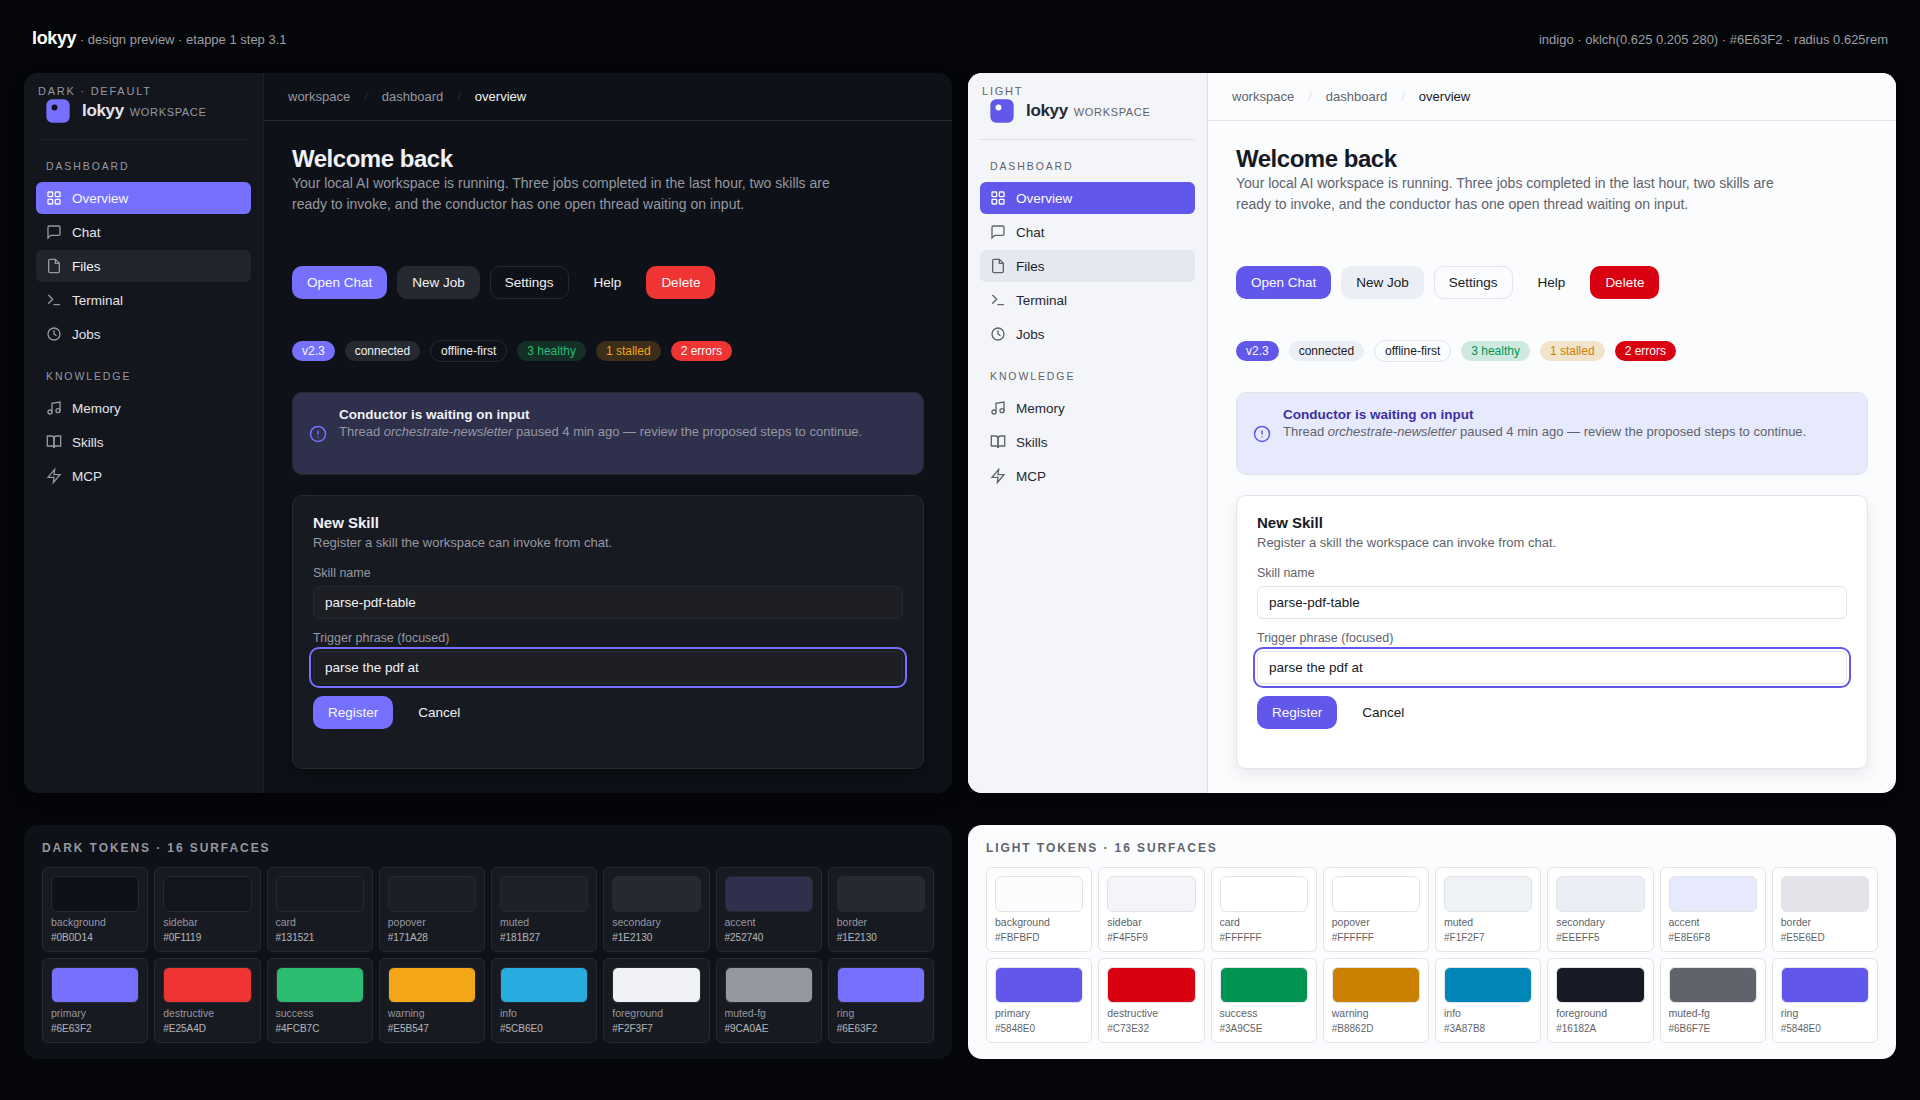
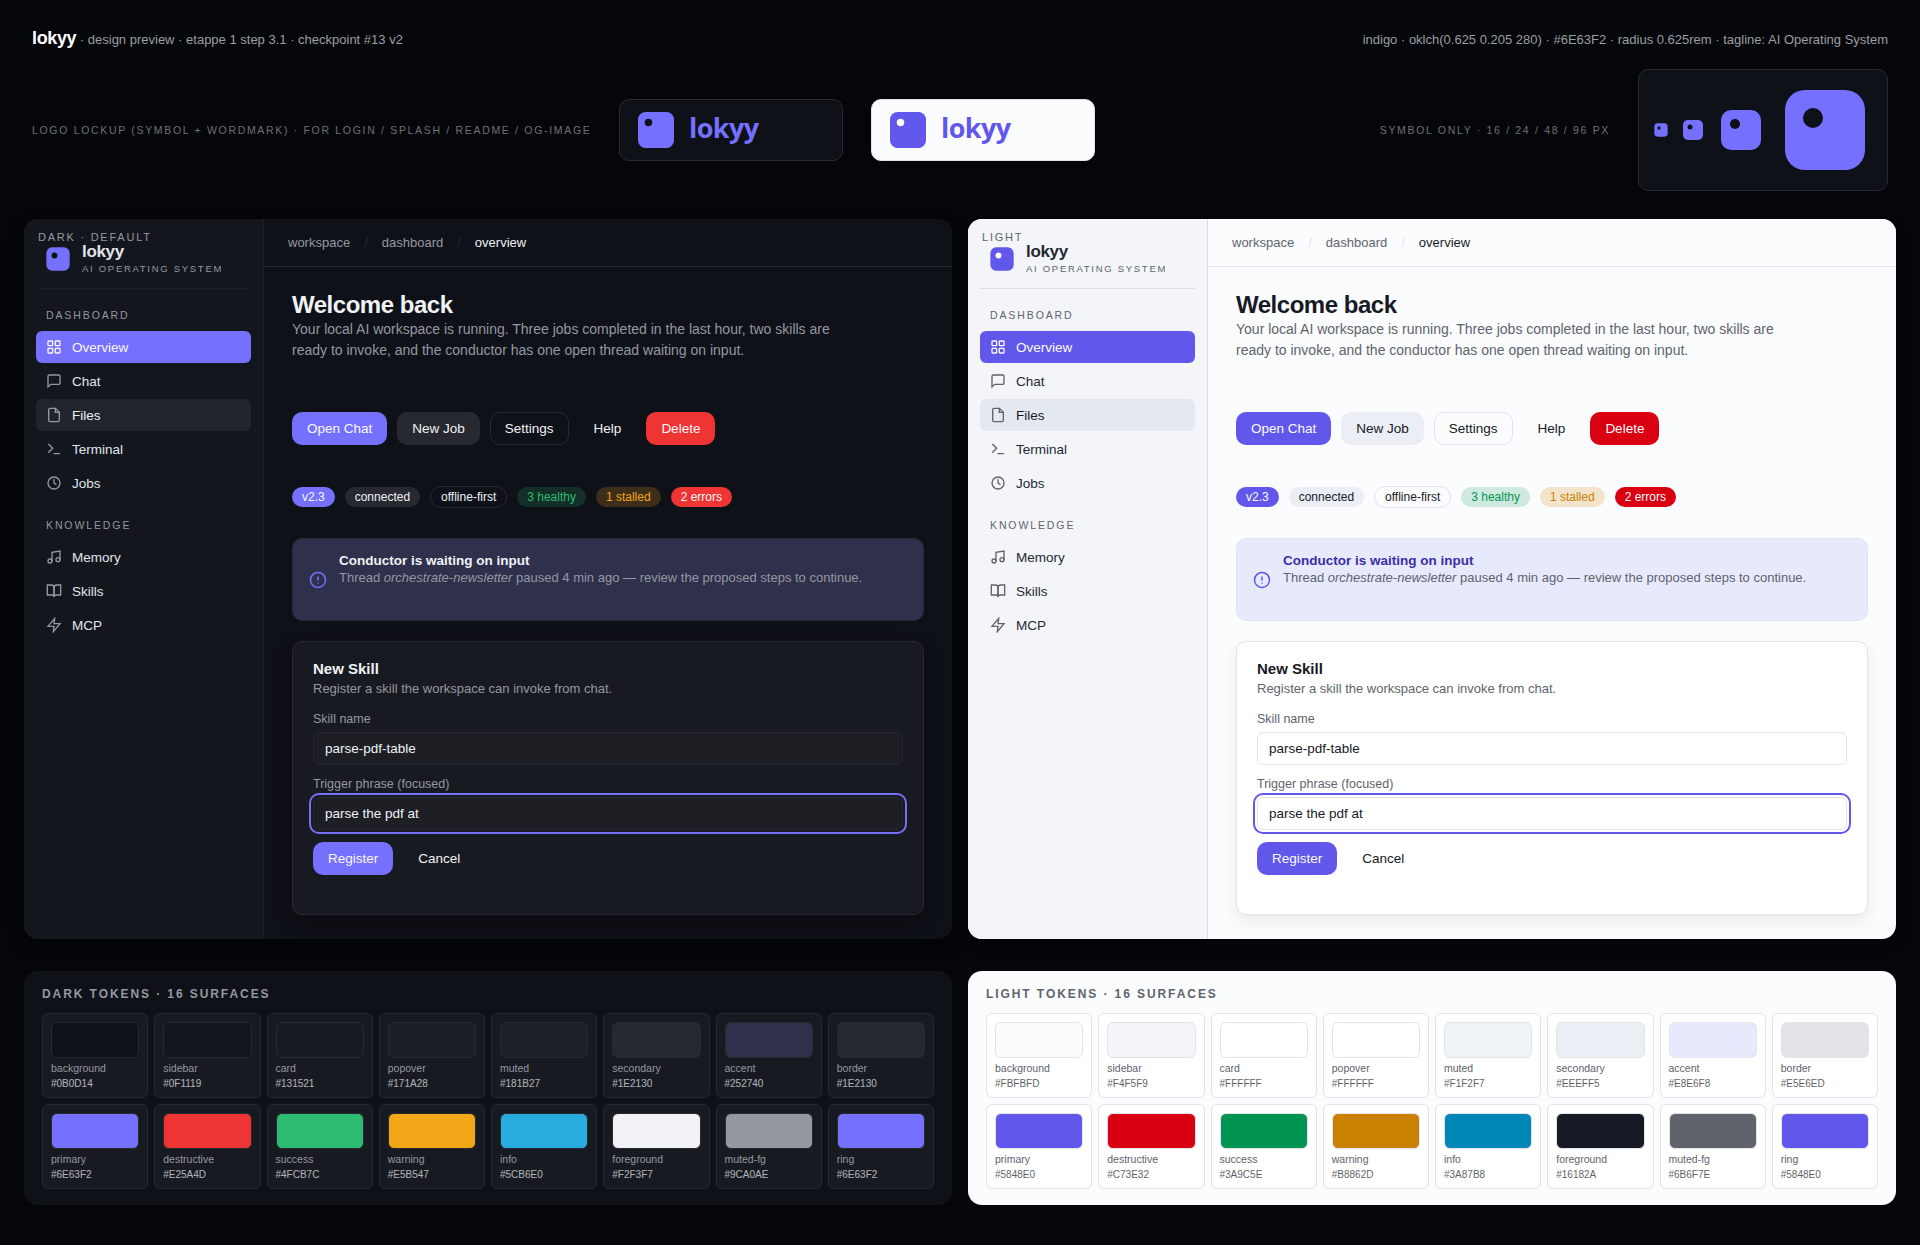
lokyy: incorporate Oliver's Checkpoint #13 answers — tagline, lockup, themes, destructive (closes #24)
All four open points from Sally's design doc are now resolved:

  1. Tagline: AI OPERATING SYSTEM (ALL CAPS) — sits as second line below
     the wordmark in the sidebar brand area, same typography family as
     the section headings (DASHBOARD / KNOWLEDGE / ...). Also appears in
     login, splash, OG image, README. Not in the main UI header.

  2. Hermes theme whitelist: kept. All 8 themes (claude-nous / -official /
     -classic / -slate × dark/light) stay in __root.tsx whitelist; Lokyy
     bridge is overlaid additively so Shadcn components show the Lokyy
     look in every theme. Theme removal is explicitly not in scope.

  3. Logo: Symbol + Wordmark lockup added (124x24 viewBox). Symbol stays
     as standalone for favicon set + sidebar. Lockup is for login,
     splash, README, OG image.

  4. Destructive hue: confirmed Sally's recommendation A — oklch(0.62 0.22
     27) = #E25A4D (warm orange-red). Tonally fits the indigo palette
     better than Hermes' cooler #fb2c36.

Preview HTML updated:
- Sidebar brand area now shows "lokyy" + "AI OPERATING SYSTEM" stacked
- New lockup showcase row at the top: lockup-on-dark + lockup-on-light
  + symbol-only at 16/24/48/96 px

Screenshot regenerated: docs/verification-shots/lokyy-preview.png
LICENSE + lokyy-workspace/ unangetastet.

Closes #24

Changed region(s): [[0.0, 0.0309, 1.0, 0.9891], [0.0312, 0.7418, 0.125, 0.8036]]

diff --git a/docs/preview/lokyy-preview.html b/docs/preview/lokyy-preview.html
@@ -110,6 +110,57 @@
     .meta strong { color: white; font-size: 18px; letter-spacing: -0.02em; }
     .meta .right { font-variant-numeric: tabular-nums; }
 
+    /* Logo lockup showcase row */
+    .lockups {
+      max-width: 1920px;
+      margin: 0 auto;
+      padding: 8px 32px 16px;
+      display: flex;
+      gap: 28px;
+      align-items: center;
+      flex-wrap: wrap;
+      color: oklch(0.70 0.01 270);
+      font-size: 11.5px;
+    }
+    .lockups__label {
+      font-size: 10.5px;
+      letter-spacing: 0.16em;
+      text-transform: uppercase;
+      color: oklch(0.55 0.01 270);
+    }
+    .lockup--on-dark {
+      background: oklch(0.18 0.015 270);
+      color: oklch(0.625 0.205 280); /* primary as currentColor */
+      --logo-inner: oklch(0.18 0.015 270);
+      padding: 12px 18px;
+      border-radius: 10px;
+      border: 1px solid oklch(0.28 0.012 270);
+    }
+    .lockup--on-light {
+      background: oklch(0.99 0.003 270);
+      color: oklch(0.555 0.215 280);
+      --logo-inner: oklch(1.00 0 0);
+      padding: 12px 18px;
+      border-radius: 10px;
+      border: 1px solid oklch(0.92 0.008 270);
+    }
+    .lockup__svg { display: block; height: 36px; width: auto; }
+    .symbol-row {
+      display: flex; gap: 12px; align-items: center;
+      padding: 12px 14px;
+      border-radius: 10px;
+    }
+    .symbol-row--on-dark {
+      background: oklch(0.18 0.015 270);
+      color: oklch(0.625 0.205 280);
+      --logo-inner: oklch(0.18 0.015 270);
+      border: 1px solid oklch(0.28 0.012 270);
+    }
+    .symbol-row .sym {
+      display: inline-flex; align-items: center; justify-content: center;
+    }
+    .symbol-row .sym svg { display: block; }
+
     .stage {
       display: grid;
       grid-template-columns: 1fr 1fr;
@@ -159,20 +210,24 @@
     .brand__logo {
       width: 28px; height: 28px;
       color: var(--primary);
+      flex: 0 0 28px;
+    }
+    .brand__text {
+      display: grid;
+      gap: 2px;
+      line-height: 1.1;
     }
     .brand__wordmark {
       font-weight: 600; font-size: 17px;
       letter-spacing: -0.02em;
       color: var(--sidebar-foreground);
     }
-    .brand__wordmark em {
-      font-style: normal;
+    .brand__tagline {
+      font-size: 9.5px;
+      letter-spacing: 0.18em;
+      text-transform: uppercase;
       color: var(--muted-foreground);
       font-weight: 500;
-      font-size: 11px;
-      margin-left: 6px;
-      letter-spacing: 0.06em;
-      text-transform: uppercase;
     }
 
     .nav-section { display: flex; flex-direction: column; gap: 2px; }
@@ -370,8 +425,45 @@
 <body>
 
 <div class="meta">
-  <div><strong>lokyy</strong> · design preview · etappe 1 step 3.1</div>
-  <div class="right">indigo · oklch(0.625 0.205 280) · #6E63F2 · radius 0.625rem</div>
+  <div><strong>lokyy</strong> · design preview · etappe 1 step 3.1 · checkpoint #13 v2</div>
+  <div class="right">indigo · oklch(0.625 0.205 280) · #6E63F2 · radius 0.625rem · tagline: AI Operating System</div>
+</div>
+
+<div class="lockups">
+  <span class="lockups__label">Logo lockup (Symbol + Wordmark) · for login / splash / README / OG-image</span>
+
+  <div class="lockup--on-dark" title="On dark surface">
+    <svg class="lockup__svg" viewBox="0 0 124 24" fill="none" aria-label="lokyy">
+      <rect x="0" y="0" width="24" height="24" rx="5" fill="currentColor"/>
+      <circle cx="7" cy="7" r="2.5" fill="var(--logo-inner, #ffffff)"/>
+      <text x="34" y="17.5"
+            font-family="Inter, -apple-system, BlinkMacSystemFont, system-ui, sans-serif"
+            font-weight="600" font-size="18"
+            letter-spacing="-0.4"
+            fill="currentColor">lokyy</text>
+    </svg>
+  </div>
+
+  <div class="lockup--on-light" title="On light surface">
+    <svg class="lockup__svg" viewBox="0 0 124 24" fill="none" aria-label="lokyy">
+      <rect x="0" y="0" width="24" height="24" rx="5" fill="currentColor"/>
+      <circle cx="7" cy="7" r="2.5" fill="var(--logo-inner, #ffffff)"/>
+      <text x="34" y="17.5"
+            font-family="Inter, -apple-system, BlinkMacSystemFont, system-ui, sans-serif"
+            font-weight="600" font-size="18"
+            letter-spacing="-0.4"
+            fill="currentColor">lokyy</text>
+    </svg>
+  </div>
+
+  <span class="lockups__label" style="margin-left:auto">Symbol only · 16 / 24 / 48 / 96 px</span>
+
+  <div class="symbol-row symbol-row--on-dark">
+    <span class="sym"><svg width="16" height="16" viewBox="0 0 24 24" fill="none"><rect x="2" y="2" width="20" height="20" rx="5" fill="currentColor"/><circle cx="9" cy="9" r="2.5" fill="var(--logo-inner)"/></svg></span>
+    <span class="sym"><svg width="24" height="24" viewBox="0 0 24 24" fill="none"><rect x="2" y="2" width="20" height="20" rx="5" fill="currentColor"/><circle cx="9" cy="9" r="2.5" fill="var(--logo-inner)"/></svg></span>
+    <span class="sym"><svg width="48" height="48" viewBox="0 0 24 24" fill="none"><rect x="2" y="2" width="20" height="20" rx="5" fill="currentColor"/><circle cx="9" cy="9" r="2.5" fill="var(--logo-inner)"/></svg></span>
+    <span class="sym"><svg width="96" height="96" viewBox="0 0 24 24" fill="none"><rect x="2" y="2" width="20" height="20" rx="5" fill="currentColor"/><circle cx="9" cy="9" r="2.5" fill="var(--logo-inner)"/></svg></span>
+  </div>
 </div>
 
 <div class="stage">
@@ -385,7 +477,10 @@
           <rect x="2" y="2" width="20" height="20" rx="5" fill="currentColor"/>
           <circle cx="9" cy="9" r="2.5" fill="var(--logo-inner)"/>
         </svg>
-        <span class="brand__wordmark">lokyy<em>workspace</em></span>
+        <div class="brand__text">
+          <div class="brand__wordmark">lokyy</div>
+          <div class="brand__tagline">AI Operating System</div>
+        </div>
       </div>
 
       <div class="nav-section">
@@ -501,7 +596,10 @@
           <rect x="2" y="2" width="20" height="20" rx="5" fill="currentColor"/>
           <circle cx="9" cy="9" r="2.5" fill="var(--logo-inner)"/>
         </svg>
-        <span class="brand__wordmark">lokyy<em>workspace</em></span>
+        <div class="brand__text">
+          <div class="brand__wordmark">lokyy</div>
+          <div class="brand__tagline">AI Operating System</div>
+        </div>
       </div>
 
       <div class="nav-section">

diff --git a/docs/lokyy-design.md b/docs/lokyy-design.md
@@ -14,12 +14,10 @@ lokyy ist das **ruhige Cockpit eines selbst-gehosteten KI-Betriebssystems**. Die
 
 - **Markenname:** **lokyy** (immer lowercase — in UI-Headern, Tab-Title, OG-Images, README-Titel, Logos).
 - **Wo Caps erlaubt sind:** ausschliesslich als typografisches Stilmittel für Section-Headings im Sidebar/Dashboard-Stil (z.B. `DASHBOARD`, `KNOWLEDGE`, `JOBS`). Das ist Layout-Typografie, nicht Branding. Die Wortmarke selbst bleibt überall lowercase.
-- **Tagline (Vorschläge — Oliver wählt eine, oder keine):**
-  1. *„your local ai operating system"* — funktional, sagt was es ist
-  2. *„the local layer"* — kürzeste Variante, abstrakter
-  3. *„ki, lokal."* — deutsch, lakonisch, passt zum Lowercase-Stil
-
-  Empfehlung: Variante 3 für DACH-Marketing, Variante 1 für Repo/OG-Image. Default in Etappe 1: **keine Tagline im UI**, nur Wordmark.
+- **Tagline (Olivers Wahl, Checkpoint #13):** **`AI OPERATING SYSTEM`** — in ALL CAPS gesetzt, als typografisches Stilmittel auf einer Linie mit den Sidebar-Section-Headings.
+  - **Wo sie erscheint:** Im Sidebar-Brand-Bereich als zweite Zeile unter dem Wordmark. Auch in Login/Splash, OG-Image, README-Header.
+  - **Stil-Spec:** `font-size: 10.5px`, `letter-spacing: 0.18em`, `text-transform: uppercase`, `color: var(--muted-foreground)` — identisch zur Sidebar-Section-Heading-Typografie, damit Brand-Mark und Section-Headings als zusammenhängendes typografisches System wirken.
+  - **In Main-UI-Header oder Top-Bar:** nicht — dort ist der Wordmark allein, sonst wird's redundant.
 
 ## Logo
 
@@ -42,7 +40,37 @@ lokyy ist das **ruhige Cockpit eines selbst-gehosteten KI-Betriebssystems**. Die
 - **16px (Favicon):** Box + Punkt klar erkennbar. Beide Formen >2px, kein Detail-Verlust. Lesbar.
 - **24px (Sidebar-Icon):** Idealgrösse. Box-Korner-Radius (~5px in 24px-viewBox) wirkt distinct, aber nicht verspielt.
 - **48px (App-Icon, Login):** Punkt-Innen tritt deutlich hervor, Wirkung „bewohnte Box".
-- **128px+ (Splash, About):** Funktioniert auch ohne Detail-Ergänzung. Falls Oliver eine Wordmark-Variante will: „lokyy" rechts vom Symbol, Inter SemiBold, mit `letter-spacing: -0.02em`, vertikal mittig zur Box.
+- **128px+ (Splash, About):** Funktioniert auch ohne Detail-Ergänzung.
+
+### Lockup-Variante (Symbol + Wordmark, Olivers Wahl in #13)
+
+Horizontale Lockup für Header, README, Login, OG-Image, Splash. Symbol links, Wordmark rechts, vertikal mittig.
+
+**SVG (124×24 viewBox):**
+
+```svg
+<svg xmlns="http://www.w3.org/2000/svg" viewBox="0 0 124 24" fill="none" aria-label="lokyy">
+  <!-- Symbol: gerundetes Quadrat = "die lokale Box" -->
+  <rect x="0" y="0" width="24" height="24" rx="5" fill="currentColor"/>
+  <!-- Innen-Punkt versetzt oben-links = "die KI im Raum" -->
+  <circle cx="7" cy="7" r="2.5" fill="var(--logo-inner, #ffffff)"/>
+  <!-- Wordmark, Inter SemiBold, vertikal optisch mittig (Baseline 17 in 24-Höhe) -->
+  <text x="34" y="17.5"
+        font-family="Inter, -apple-system, BlinkMacSystemFont, system-ui, sans-serif"
+        font-weight="600" font-size="18"
+        letter-spacing="-0.02em"
+        fill="currentColor">lokyy</text>
+</svg>
+```
+
+**Verwendung:**
+- Login/Splash: Lockup gross (256–360px breit), zentriert. Darunter optional `AI OPERATING SYSTEM` als Tagline-Caps mit 16px Abstand.
+- README-Header: Lockup ~200px breit, links-bündig.
+- OG-Image (1200×630): Lockup zentriert auf Lokyy-Dark-BG.
+- Favicon-Set: nur Symbol (ohne Wordmark). Lockup ist nicht für 16/32/48px Icon-Slots gedacht.
+- Sidebar im Workspace: weiterhin **Symbol + textuelles `<span>lokyy</span>`** (kein inline-SVG-Lockup, damit Tagline darunter auf eigener Zeile sauber sitzt — siehe Schreibweise & Wordmark oben).
+
+**Monochrome-Lockup:** Falls für Print/Wasserzeichen: Symbol + Text als zwei Helligkeitsstufen derselben Farbe.
 
 **Farbverhalten:**
 - Light Mode: Box in `var(--primary)` (Indigo), Punkt in `#ffffff`.
@@ -284,9 +312,13 @@ Wer lokyy aufmacht, sieht zuerst eine **schmale dunkle Sidebar mit Section-Headi
 
 ---
 
-## Offene Punkte für Oliver (Checkpoint #13)
+## Geklärt durch Oliver (Checkpoint #13, 2026-05-14)
 
-1. **Tagline:** Welche der drei Varianten — oder gar keine? Default-Empfehlung: keine im UI, „ki, lokal." nur für Marketing-OG.
-2. **Hermes-Theme-Whitelist:** sollen die 6 Nicht-`claude-nous`-Themes (`claude-official`, `claude-classic`, `claude-slate` × 2) später aus der Settings-UI entfernt werden? Empfehlung: in Phase D klären, nicht jetzt.
-3. **Logo-Wordmark-Variante:** möchte Oliver eine kombinierte Variante (Symbol + „lokyy" daneben) zusätzlich zum reinen Symbol? Default-Empfehlung: ja, eine SVG-Variante mit Inter SemiBold daneben für Login/Header.
-4. **Destructive-Hue:** Lokyys destructive `oklch(0.62 0.22 27)` (warmes Rot) — ok, oder bevorzugt Oliver Hermes' pinkigeres `#fb2c36`? Default-Empfehlung: das warmere Rot, passt besser zur ruhigen Indigo-Palette.
+Alle vier Punkte sind entschieden und in den vorhergehenden Sections eingearbeitet:
+
+1. **Tagline → `AI OPERATING SYSTEM`** (in ALL CAPS). Sitzt im Sidebar-Brand-Bereich auf zweiter Zeile unter dem Wordmark, gleiche Typografie wie Sidebar-Section-Headings. Auch in Login/Splash, OG-Image, README. Nicht in Main-UI-Header. → siehe „Schreibweise & Wordmark".
+2. **Hermes-Theme-Whitelist → bleibt erhalten.** Alle 8 Themes (`claude-nous`, `claude-official`, `claude-classic`, `claude-slate` je dark/light) bleiben in der `__root.tsx`-Whitelist und in der Settings-UI selectable. Lokyy-Bridge-Block wird pro Theme additiv eingefügt — Shadcn-Komponenten zeigen überall den Lokyy-Look, Hermes-Komponenten behalten pro Theme ihre Hermes-Charakteristik. Entfernen einzelner Themes ist explizit kein Etappe-1-Scope.
+3. **Logo → Symbol + Wordmark als Lockup-Variante** zusätzlich zum reinen Symbol. Lockup-SVG (124×24 viewBox) ist oben in der Logo-Section ergänzt. Verwendung: Login, Splash, README, OG-Image, Header-Lockups. Sidebar im Workspace nutzt Symbol + separates Wordmark-`<span>` damit die Tagline auf eigener Zeile darunter passt.
+4. **Destructive-Hue → Option A bestätigt** (`oklch(0.62 0.22 27)` = `#E25A4D`, warmes Orange-Rot). Bleibt wie in der Token-Tabelle dokumentiert. Tonal kompatibler mit der Indigo-Palette als Hermes' kühleres Pink-Rot.
+
+→ Mit allen vier Antworten ist Checkpoint #13 erledigt. Phase A (#14) kann starten.
